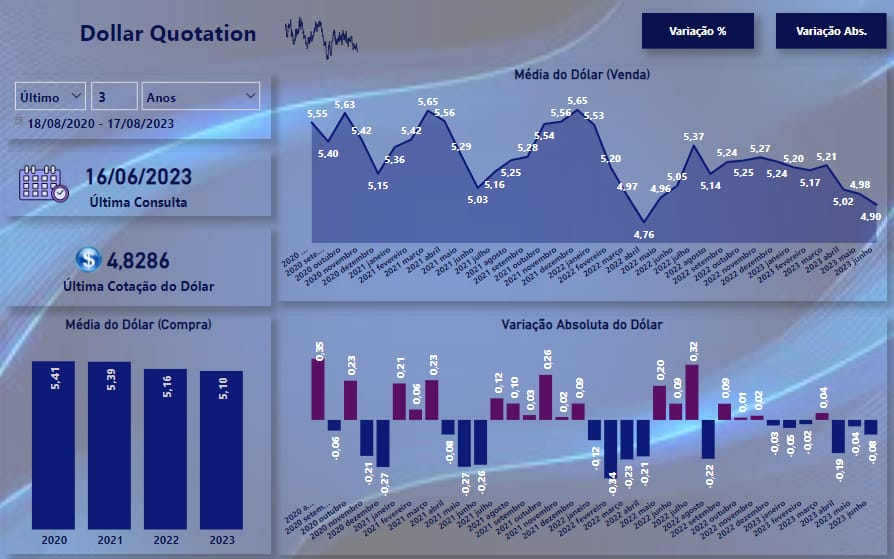
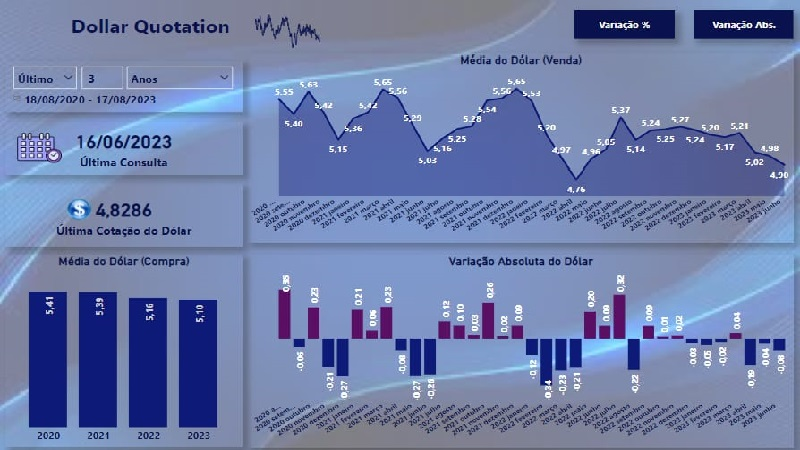
Alterações no css para deixar responsivo, corrigindo alguns erros do commit anterior e mudança no tamanho e dimensões das imagens de dash, deixando largura de 800 px e altura de 450 px

diff --git a/css/style.css b/css/style.css
@@ -49,8 +49,8 @@ section {
 
 .dashboard-grid {
     display: grid;
-    grid-template-columns: repeat(2, 1fr);
-    gap: 20px;
+    grid-template-columns: repeat(3, 1fr);
+    gap: 30px;
 }
 
 .dashboard-cell {
@@ -59,14 +59,14 @@ section {
     text-align: center;
     border-radius: 15px; /* Adiciona bordas circulares */
     background-color: rgba(0, 0, 0, 0.5);; /* Cor de fundo */
-    overflow: hidden; /* Garante que o conteúdo não ultrapasse as bordas */
+    overflow: auto; /* Garante que o conteúdo não ultrapasse as bordas */
 }
 
 .dashboard-cell img {
-    width: 100%; /* A imagem ocupa todo o espaço disponível da célula */
-    height: 70%; /* Mantém a proporção da imagem */
-    max-height: 267px;
-    max-width: 400px; /* Define a largura máxima das células */
+    width: 80%; /* A imagem ocupa 80% da largura disponível da célula */
+    height: auto; /* A altura se ajusta automaticamente para manter a proporção */
+    max-height: 70%; /* Define a altura máxima da célula em relação à altura da tela */
+    max-width: 80%; /* Define a largura máxima da célula em relação à largura da tela */
     margin: 0 auto; /* Centraliza as células horizontalmente */
     box-sizing: border-box;
     border-radius: 10px; /* Adiciona bordas circulares */
@@ -295,13 +295,13 @@ a {
         width: 20px;
     }
 
-    .dashboard-cell img {
-        width: 100%; /* A imagem ocupa todo o espaço disponível da célula */
-        height: 70%; /* Mantém a proporção da imagem */
-        max-height: 100px;
-        max-width: 400px; /* Define a largura máxima das células */
-        margin: 0 auto; /* Centraliza as células horizontalmente */
-        box-sizing: border-box;
-        border-radius: 10px; /* Adiciona bordas circulares */
+    .dashboard-grid {
+        grid-template-columns: repeat(2, 1fr),; /* Uma coluna em telas menores */
+        gap: 10px;
+    }
+
+    .dashboard-cell {
+        padding: 10px;
+        border-radius: 10px;
     }
 }
